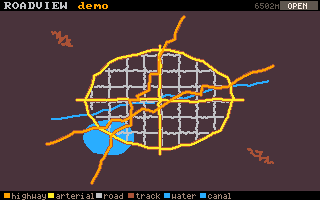
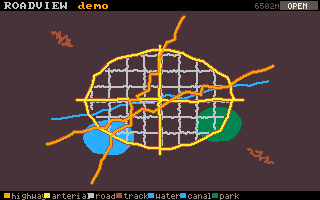
roadview: green areas (parks/woods) + zoom-gated tree dots
- osm-roads.js: fetch green areas (natural=wood/scrub/grassland, landuse=
  forest/grass/meadow, leisure=park/garden/nature_reserve) as filled 'green'
  kind; fetch node[natural=tree] as 'tree' point features (first node handling)
- roadview.c: K_GREEN filled at the bottom (ground layer, always on); K_TREE
  drawn as LOD-gated dots on top (TREE_GATE_PPM, T toggles). Fixed the load
  guard that dropped single-point features. Legend lists only what's drawn;
  spacing tightened for 9 classes. demo gains a park + tree scatter
- docs + index.json updated

Changed region(s): [[0.125, 0.96, 0.75, 1.0], [0.5938, 0.54, 0.7812, 0.72]]

diff --git a/tools/osm-roads.js b/tools/osm-roads.js
@@ -50,6 +50,10 @@ function classifyWay(t) {
   if (t.natural === 'water' || t.water || t.waterway === 'riverbank' ||
       t.landuse === 'reservoir' || t.landuse === 'basin') return 'water';   // area, filled
   if (t.building && t.building !== 'no') return 'building';                  // area, filled (footprint)
+  if (t.natural === 'wood' || t.natural === 'scrub' || t.natural === 'grassland' ||
+      t.landuse === 'forest' || t.landuse === 'grass' || t.landuse === 'meadow' ||
+      t.leisure === 'park' || t.leisure === 'garden' || t.leisure === 'nature_reserve')
+    return 'green';                                                         // area, filled (park/wood)
   if (/^(river|canal|stream|drain|ditch)$/.test(t.waterway || '')) return 'canal';  // line
   const hw = t.highway || '';
   if (/^(motorway|trunk)(_link)?$/.test(hw)) return 'highway';
@@ -82,8 +86,8 @@ function buildDoc(source, name, ways) {
   const features = [];
   for (const w of ways) {
     let local = w.pts.map(([x, y]) => [x - minx, y - miny]);
-    if (w.kind !== 'building') local = simplify(local, SIMPLIFY);  // keep small footprints intact
-    if (local.length < 2) continue;
+    if (w.kind !== 'building' && w.kind !== 'tree') local = simplify(local, SIMPLIFY);
+    if (local.length < 1 || (local.length < 2 && w.kind !== 'tree')) continue;  // trees are single points
     const flat = [];
     for (const [x, y] of local) flat.push(round(x), round(y));
     features.push({ kind: w.kind, name: w.name || '', pts: flat });
@@ -160,6 +164,20 @@ function demo() {
     lake.push([1050 + Math.cos(a) * 520, 720 + Math.sin(a) * 360 + (rnd() - 0.5) * 40]);
   }
   ways.push({ kind: 'water', name: 'Vest', pts: lake });
+  // a park (green area) in the NE, with a scatter of individual trees in it
+  const park = [];
+  for (let i = 0; i <= 22; i++) {
+    const a = (i / 22) * Math.PI * 2;
+    park.push([3300 + Math.cos(a) * 480, 1000 + Math.sin(a) * 360 + (rnd() - 0.5) * 40]);
+  }
+  ways.push({ kind: 'green', name: 'Stadspark', pts: park });
+  for (let i = 0; i < 80; i++) {
+    const tx = 3300 + (rnd() - 0.5) * 820, ty = 1000 + (rnd() - 0.5) * 620;
+    if (((tx - 3300) / 480) ** 2 + ((ty - 1000) / 360) ** 2 < 0.9)
+      ways.push({ kind: 'tree', name: '', pts: [[tx, ty]] });
+  }
+  // street trees lining the central avenue
+  for (let x = 600; x < W - 400; x += 90) ways.push({ kind: 'tree', name: '', pts: [[x, H / 2 - 70]] });
   // a scatter of building footprints in the downtown blocks (closed rects = areas)
   for (let bx = 1500; bx < 3200; bx += 240) {
     for (let by = 1100; by < 2300; by += 200) {
@@ -192,6 +210,10 @@ async function overpass(S, W, N, E, name) {
             `way["natural"="water"]${bb};` +
             `way["landuse"~"^(reservoir|basin)$"]${bb};` +
             `way["building"]${bb};` +
+            `way["natural"~"^(wood|scrub|grassland)$"]${bb};` +
+            `way["landuse"~"^(forest|grass|meadow)$"]${bb};` +
+            `way["leisure"~"^(park|garden|nature_reserve)$"]${bb};` +
+            `node["natural"="tree"]${bb};` +
             `);out geom;`;
   console.log(`querying Overpass for bbox ${S},${W},${N},${E} …`);
   // the public instances 504/429 under load — try the mirrors in turn
@@ -217,6 +239,11 @@ async function overpass(S, W, N, E, name) {
   if (!j) throw new Error(`all Overpass mirrors failed (${lastErr})`);
   const ways = [];
   for (const el of j.elements || []) {
+    if (el.type === 'node') {                          // individual trees = point nodes
+      if (el.tags?.natural === 'tree' && el.lat != null)
+        ways.push({ kind: 'tree', name: '', pts: [merc(el.lon, el.lat)] });
+      continue;
+    }
     if (el.type !== 'way' || !el.geometry) continue;
     const kind = classifyWay(el.tags || {});
     if (!kind) continue;

diff --git a/tools/carts/roadview.c b/tools/carts/roadview.c
@@ -18,31 +18,34 @@
 //                     (--data <file> / $DE_DATA still force a specific file.)
 //
 //   ◄▲▼► / WASD   pan  ·  left-drag  grab the map  ·  wheel  zoom  ·  0  reset view
-//   B  toggle building footprints (filled blocks; auto-shown once you zoom in close)
+//   B / T  toggle building footprints / tree dots (both auto-shown once you zoom in close)
 //   drag a .json onto the window → load it   ·   OPEN button → reveal the data folder
 //
 #include "studio.h"
 #include "json.h"      // EXPERIMENTAL cart-land JSON reader (vendored jsmn)
 #include <stdlib.h>    // abs
 
-enum { K_HIGHWAY, K_ARTERIAL, K_ROAD, K_TRACK, K_WATER, K_CANAL, K_BUILDING, K_N };
+enum { K_HIGHWAY, K_ARTERIAL, K_ROAD, K_TRACK, K_WATER, K_CANAL, K_BUILDING, K_GREEN, K_TREE, K_N };
 
 // per-class style: colour, casing colour, and real-world half-width in metres.
-// WATER and BUILDING are filled areas (hw_m unused); the rest are polylines.
+// WATER/BUILDING/GREEN are filled areas, TREE is a point dot (hw_m unused); rest are polylines.
 typedef struct { int col, casing; float hw_m; const char *label; } Style;
 static const Style ST[K_N] = {
-    /* HIGHWAY  */ { CLR_ORANGE,     CLR_BROWN,     7.0f, "highway"  },
-    /* ARTERIAL */ { CLR_YELLOW,     CLR_BROWN,     5.0f, "arterial" },
-    /* ROAD     */ { CLR_LIGHT_GREY, CLR_DARK_GREY, 3.0f, "road"     },
-    /* TRACK    */ { CLR_BROWN,      CLR_BROWN,     1.5f, "track"    },
-    /* WATER    */ { CLR_BLUE,       CLR_BLUE,      0.0f, "water"    },
-    /* CANAL    */ { CLR_BLUE,       CLR_BLUE,      4.0f, "canal"    },
-    /* BUILDING */ { CLR_DARK_GREY,  CLR_DARK_GREY, 0.0f, "building" },
+    /* HIGHWAY  */ { CLR_ORANGE,     CLR_BROWN,      7.0f, "highway"  },
+    /* ARTERIAL */ { CLR_YELLOW,     CLR_BROWN,      5.0f, "arterial" },
+    /* ROAD     */ { CLR_LIGHT_GREY, CLR_DARK_GREY,  3.0f, "road"     },
+    /* TRACK    */ { CLR_BROWN,      CLR_BROWN,      1.5f, "track"    },
+    /* WATER    */ { CLR_BLUE,       CLR_BLUE,       0.0f, "water"    },
+    /* CANAL    */ { CLR_BLUE,       CLR_BLUE,       4.0f, "canal"    },
+    /* BUILDING */ { CLR_DARK_GREY,  CLR_DARK_GREY,  0.0f, "building" },
+    /* GREEN    */ { CLR_DARK_GREEN, CLR_DARK_GREEN, 0.0f, "park"     },
+    /* TREE     */ { CLR_GREEN,      CLR_GREEN,      0.0f, "trees"    },
 };
 
-// buildings (footprints) are LOD-gated: only filled once you've zoomed in enough that a
-// footprint is a few pixels — keeps the wide view a clean road network, reveals blocks up close.
+// footprints + tree dots are LOD-gated: only drawn once zoomed in enough that they are a
+// few pixels (sub-pixel at fit = wasted draws + clutter). Trees are finer → a higher gate.
 #define BUILD_GATE_PPM 0.12f
+#define TREE_GATE_PPM  0.25f
 
 #define MAXPTS  800000                               // higher than roads alone need — buildings are dense
 #define MAXPOLY  80000
@@ -61,6 +64,7 @@ static float camx, camy;                             // world point at screen ce
 static float ppm = 0.2f, fitppm = 0.2f;              // pixels per metre (zoom)
 static int   dragging = 0, drag_px, drag_py;
 static int   buildings_on = 1;                       // B toggles footprint fills (still LOD-gated)
+static int   trees_on = 1;                           // T toggles tree dots (still LOD-gated)
 
 // world (metres) → screen pixels; Y flips so north is up
 static int sx(float wx) { return SCREEN_W / 2 + (int)((wx - camx) * ppm); }
@@ -82,6 +86,8 @@ static int kind_of(const char *js, const jsmntok_t *t) {
     if (json_eq(js, t, "water"))    return K_WATER;
     if (json_eq(js, t, "canal"))    return K_CANAL;
     if (json_eq(js, t, "building")) return K_BUILDING;
+    if (json_eq(js, t, "green"))    return K_GREEN;
+    if (json_eq(js, t, "tree"))     return K_TREE;
     return K_ROAD;
 }
 
@@ -124,8 +130,9 @@ static void load_from(const char *path) {
                     PY[nps] = (float)json_num(js, &tok[pi + 1 + j * 2 + 1]);
                     nps++;
                 }
-                if (nps - start >= 2) {
-                    ways[npoly].kind = kind; ways[npoly].start = start; ways[npoly].count = nps - start;
+                int cnt2 = nps - start;                       // trees are a single point; lines/areas need >=2
+                if (cnt2 >= 2 || (kind == K_TREE && cnt2 >= 1)) {
+                    ways[npoly].kind = kind; ways[npoly].start = start; ways[npoly].count = cnt2;
                     kcount[kind]++; npoly++;
                 }
             }
@@ -187,6 +194,17 @@ static void fill_areas(int kind) {
     }
 }
 
+// individual trees are point features (one point) → small dots, LOD-gated like footprints.
+static void draw_trees(void) {
+    int r = (int)(3.0f * ppm + 0.5f); if (r < 1) r = 1; if (r > 3) r = 3;   // ~3 m canopy, capped
+    for (int i = 0; i < npoly; i++) {
+        if (ways[i].kind != K_TREE) continue;
+        int x = sx(PX[ways[i].start]), y = sy(PY[ways[i].start]);
+        if (x < -r || x > SCREEN_W + r || y < -r || y > SCREEN_H + r) continue;
+        circfill(x, y, r, ST[K_TREE].col);
+    }
+}
+
 // draw every poly of one class for a phase (0 = casing, 1 = fill)
 static void draw_class(int kind, int phase) {
     const Style *s = &ST[kind];
@@ -201,13 +219,15 @@ static void legend(void) {
     font(FONT_SMALL);
     rectfill(0, SCREEN_H - 9, SCREEN_W, 9, CLR_BLACK);
     int build_shown = buildings_on && ppm >= BUILD_GATE_PPM;   // only list what's actually drawn
+    int tree_shown  = trees_on && ppm >= TREE_GATE_PPM;
     int x = 4;
     for (int k = 0; k < K_N; k++) {
         if (!kcount[k]) continue;
         if (k == K_BUILDING && !build_shown) continue;
+        if (k == K_TREE && !tree_shown) continue;
         rectfill(x, SCREEN_H - 7, 6, 5, ST[k].col);
         print(ST[k].label, x + 8, SCREEN_H - 7, CLR_MEDIUM_GREY);
-        x += 8 + (int)strlen(ST[k].label) * 4 + 8;
+        x += 8 + (int)strlen(ST[k].label) * 4 + 4;
     }
     font(FONT_NORMAL);
 }
@@ -250,6 +270,7 @@ void update(void) {
     }
     if (keyp('0')) fit();
     if (keyp('B') || keyp('b')) buildings_on = !buildings_on;
+    if (keyp('T') || keyp('t')) trees_on = !trees_on;
 }
 
 void draw(void) {
@@ -270,7 +291,8 @@ void draw(void) {
         return;
     }
 
-    // painter's order: water, then building footprints (LOD-gated), then roads on top
+    // painter's order: green ground → water → footprints → roads → tree dots on top
+    fill_areas(K_GREEN);                                     // parks/woods = bottom ground layer
     fill_areas(K_WATER);
     if (buildings_on && ppm >= BUILD_GATE_PPM) fill_areas(K_BUILDING);
     draw_class(K_CANAL, 1);
@@ -278,6 +300,7 @@ void draw(void) {
     draw_class(K_ROAD,  1);
     draw_class(K_ARTERIAL, 0); draw_class(K_HIGHWAY, 0);      // casings
     draw_class(K_ARTERIAL, 1); draw_class(K_HIGHWAY, 1);      // fills
+    if (trees_on && ppm >= TREE_GATE_PPM) draw_trees();       // finest detail, on top
 
     // HUD
     rectfill(0, 0, SCREEN_W, 11, CLR_BLACK);

diff --git a/docs/design/external-data-carts.md b/docs/design/external-data-carts.md
@@ -51,11 +51,13 @@ to the screen.
 }
 ```
 
-- `kind` ∈ `highway | arterial | road | track` (road classes, drawn as polylines) plus
-  `canal` (a water line) and the **filled-area** kinds `water` and `building` (closed rings,
-  drawn with `polyfill`). The cart styles each; `building` footprints are **LOD-gated** —
-  only filled once you zoom in past `BUILD_GATE_PPM` (sub-pixel at fit = wasted fills + clutter),
-  toggleable with `B`.
+- `kind` ∈ `highway | arterial | road | track` (road classes, polylines) · `canal` (water
+  line) · the **filled-area** kinds `water`, `green` (parks/woods), and `building` (closed
+  rings, drawn with `polyfill`) · and `tree` (a single **point** — note `osm-roads.js` reads
+  `node[natural=tree]`, the one place it processes nodes, not ways). The cart styles each;
+  `building` footprints and `tree` dots are **LOD-gated** — only drawn once you zoom in past
+  `BUILD_GATE_PPM` / `TREE_GATE_PPM` (sub-pixel at fit = wasted draws + clutter), toggled by
+  `B` / `T`. Green areas are drawn at every zoom (the ground layer).
 - `pts` is a **flat** `[x0,y0,x1,y1,…]` polyline in the bbox's metre frame.
 - Floorplans would reuse the same shape (walls = polylines, rooms = closed polylines) with a
   different `kind` vocabulary — that's the point of standardizing the IR, not the parser.
@@ -67,7 +69,7 @@ to the screen.
 | `runtime/studio.c` / `studio.h` | `--data <file>` → `de_data_path()` (falls back to `$DE_DATA`); plus `de_dropped_file()` (drag-&-drop a file onto the window) and `de_open_path()` (reveal a folder in Finder/Explorer). All additive. | small, all tagged EXPERIMENTAL |
 | `runtime/json.h` | cart-land JSON reader: vendored **jsmn** (zero-alloc tokenizer, MIT) + walk helpers (`json_slurp` / `json_parse` / `json_get` / `json_num` / `json_span`). A capability the engine deliberately doesn't own (ADR-0006, like `ui.h`). | delete the file |
 | `tools/osm-roads.js` | OSM → schema. `--demo` (synthetic, offline), `--bbox S,W,N,E`, or `--place "name"` (Nominatim geocode). Fetches via Overpass (auto-falls-back across mirrors), projects web-mercator, classes roads + water, radial-distance simplify. Writes **`data/<slug>.json`** by default. | delete the file |
-| `tools/carts/roadview.c` | the one consumer: default-loads `data/demo.json`, fits bbox, draws classed roads + filled water + **zoom-gated building footprints** (`B` toggles), pan/zoom. **Drag a `.json` onto the window to switch towns**; the `OPEN` button reveals the `data/` folder. | delete the cart |
+| `tools/carts/roadview.c` | the one consumer: default-loads `data/demo.json`, fits bbox, draws classed roads + filled water + green (parks/woods) + **zoom-gated building footprints (`B`) and tree dots (`T`)**, pan/zoom. **Drag a `.json` onto the window to switch towns**; the `OPEN` button reveals the `data/` folder. | delete the cart |
 | `data/` (git-ignored) | the town library — every fetched `.json` lands here; the cart's `OPEN` button opens it. | `rm -rf data/` |
 
 ## Getting towns into the `data/` folder